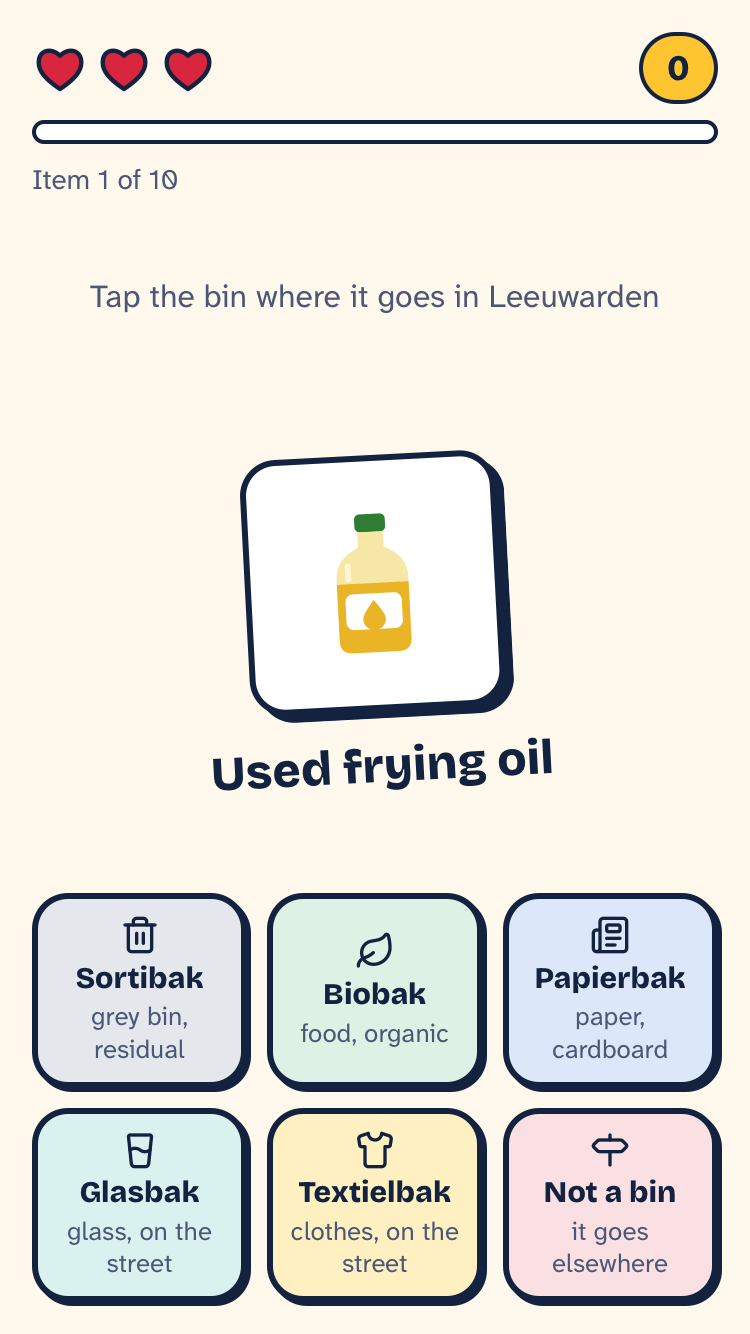
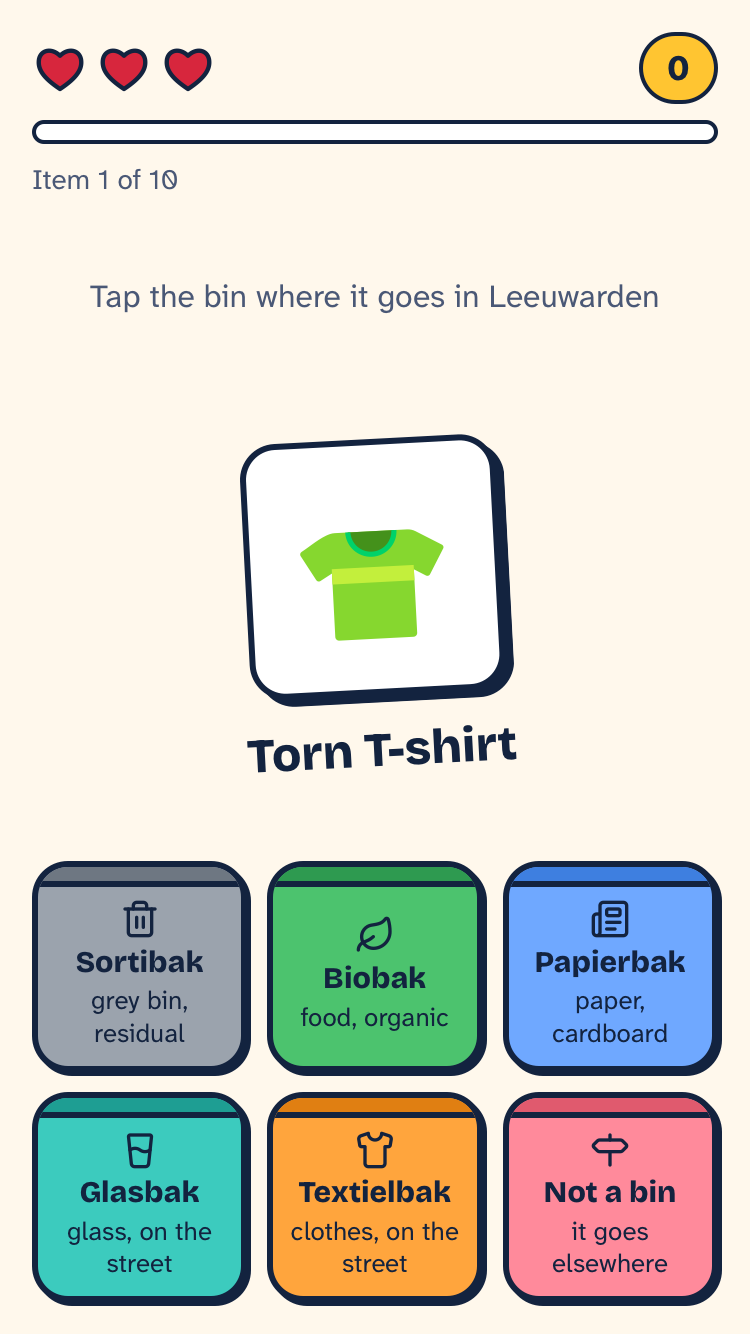
style: make the bin colours stronger
Saturated colours with a darker lid band so the six targets stand out; ink hint text, at least 6:1 on every bin. The 'Right!' card gets its own light green token instead of borrowing the Biobak colour.

Changed region(s): [[0.0307, 0.6454, 0.9813, 0.9835], [0.276, 0.3073, 0.736, 0.6147]]

diff --git a/app/src/features/round/BinTarget.tsx b/app/src/features/round/BinTarget.tsx
@@ -4,13 +4,13 @@ import type { Bin, BinId } from '@/domain/catalog'
 
 // Icon + Dutch name + English hint carry the meaning; the tint only helps.
 // Tints are game colours, not Omrin's lid colours (only the Sortibak's grey is confirmed).
-const BIN_STYLE: Record<BinId, { tint: string; Icon: LucideIcon }> = {
-  sortibak: { tint: 'bg-bin-sortibak', Icon: Trash2 },
-  biobak: { tint: 'bg-bin-biobak', Icon: Leaf },
-  papierbak: { tint: 'bg-bin-papierbak', Icon: Newspaper },
-  glasbak: { tint: 'bg-bin-glasbak', Icon: GlassWater },
-  textielbak: { tint: 'bg-bin-textielbak', Icon: Shirt },
-  'not-a-bin': { tint: 'bg-bin-not-a-bin', Icon: Signpost },
+const BIN_STYLE: Record<BinId, { body: string; lid: string; Icon: LucideIcon }> = {
+  sortibak: { body: 'bg-bin-sortibak', lid: 'bg-bin-sortibak-lid', Icon: Trash2 },
+  biobak: { body: 'bg-bin-biobak', lid: 'bg-bin-biobak-lid', Icon: Leaf },
+  papierbak: { body: 'bg-bin-papierbak', lid: 'bg-bin-papierbak-lid', Icon: Newspaper },
+  glasbak: { body: 'bg-bin-glasbak', lid: 'bg-bin-glasbak-lid', Icon: GlassWater },
+  textielbak: { body: 'bg-bin-textielbak', lid: 'bg-bin-textielbak-lid', Icon: Shirt },
+  'not-a-bin': { body: 'bg-bin-not-a-bin', lid: 'bg-bin-not-a-bin-lid', Icon: Signpost },
 }
 
 type Props = {
@@ -20,7 +20,7 @@ type Props = {
 }
 
 export function BinTarget({ bin, isDisabled = false, onSelect }: Props) {
-  const { tint, Icon } = BIN_STYLE[bin.id]
+  const { body, lid, Icon } = BIN_STYLE[bin.id]
 
   return (
     <motion.button
@@ -29,11 +29,13 @@ export function BinTarget({ bin, isDisabled = false, onSelect }: Props) {
       onClick={() => onSelect?.(bin.id)}
       whileTap={{ scale: 0.94 }}
       aria-label={`${bin.name}: ${bin.english}`}
-      className={`sticker flex min-h-[84px] short:min-h-[72px] short:py-1.5 flex-col items-center justify-center gap-0.5 px-1 py-2 text-center shadow-sticker-sm ${tint} focus-visible:ring-4 focus-visible:ring-ring/40 focus-visible:outline-none disabled:cursor-default`}
+      className={`sticker relative flex min-h-[84px] short:min-h-[72px] flex-col items-center justify-center gap-0.5 overflow-hidden px-1 pt-4 pb-2 short:pt-3.5 short:pb-1.5 text-center shadow-sticker-sm ${body} focus-visible:ring-4 focus-visible:ring-ring/40 focus-visible:outline-none disabled:cursor-default`}
     >
+      {/* The lid: a darker band across the top, so the card reads as a bin */}
+      <span aria-hidden="true" className={`absolute inset-x-0 top-0 h-2.5 border-b-[3px] border-ink ${lid}`} />
       <Icon className="size-5 text-ink" aria-hidden="true" />
       <span className="font-heading text-[15px] leading-tight font-extrabold">{bin.name}</span>
-      <span className="text-[13px] leading-tight text-ink-muted">{bin.english}</span>
+      <span className="text-[13px] leading-tight text-ink">{bin.english}</span>
     </motion.button>
   )
 }

diff --git a/app/src/styles/tokens.css b/app/src/styles/tokens.css
@@ -12,18 +12,26 @@
   --color-sky: #dce8fa;          /* light blue tint */
   --color-pompebled: #d7263d;    /* lives, "not quite" · white on it 5.0:1 */
   --color-meadow: #17703d;       /* right answers · white on it 6.1:1 */
+  --color-meadow-tint: #ddf1e4;  /* "Right!" card background · meadow text on it 5.2:1 */
   --color-sun: #ffc531;          /* score, streak, highlights · ink on it 9.9:1 · never text on cream */
   --color-cream: #fff8ec;        /* page background: not plain white */
   --color-paper: #ffffff;        /* cards and sheets */
   --color-sortibak: #8a9099;     /* the Sortibak's real colour: grey (Omrin guide p. 4) */
 
-  /* Bin tints: game colours, NOT Omrin's lid colours (only the Sortibak's grey is confirmed) */
-  --color-bin-sortibak: #e4e7eb;
-  --color-bin-biobak: #ddf1e4;
-  --color-bin-papierbak: #dce8fa;
-  --color-bin-glasbak: #d9f1ef;
-  --color-bin-textielbak: #fff0c2;
-  --color-bin-not-a-bin: #fbe0e3;
+  /* Bin colours: game colours, NOT Omrin's lid colours (only the Sortibak's grey is confirmed).
+     Ink text on each is at least 6:1. The darker "lid" shade is decoration only, never behind text. */
+  --color-bin-sortibak: #9ba3ad;      /* ink 6.2:1 */
+  --color-bin-sortibak-lid: #6e7782;
+  --color-bin-biobak: #4cc36e;        /* ink 7.0:1 */
+  --color-bin-biobak-lid: #2e9a50;
+  --color-bin-papierbak: #6fa8ff;     /* ink 6.5:1 */
+  --color-bin-papierbak-lid: #3e7fe0;
+  --color-bin-glasbak: #3ccbbe;       /* ink 7.8:1 */
+  --color-bin-glasbak-lid: #1e9e93;
+  --color-bin-textielbak: #ffa53d;    /* ink 8.0:1 · orange, so it doesn't clash with the yellow score */
+  --color-bin-textielbak-lid: #e07f12;
+  --color-bin-not-a-bin: #ff8a9b;     /* ink 7.0:1 */
+  --color-bin-not-a-bin-lid: #e05a6e;
 
   /* Type: two families, self-hosted */
   --font-display: "Bricolage Grotesque Variable", ui-sans-serif, system-ui, sans-serif;

diff --git a/app/src/features/round/RoundScreen.tsx b/app/src/features/round/RoundScreen.tsx
@@ -96,7 +96,7 @@ export function RoundScreen({ items, roundNumber, sessionId, store, onFinish }: 
             key={rightItem.id}
             initial={{ y: -8, opacity: 0 }}
             animate={{ y: 0, opacity: 1 }}
-            className="sticker w-full bg-bin-biobak px-3 py-2 shadow-sticker-sm"
+            className="sticker w-full bg-meadow-tint px-3 py-2 shadow-sticker-sm"
           >
             <p className="flex items-center gap-1.5 text-sm font-bold text-meadow">
               <Check className="size-4 shrink-0" aria-hidden="true" />
